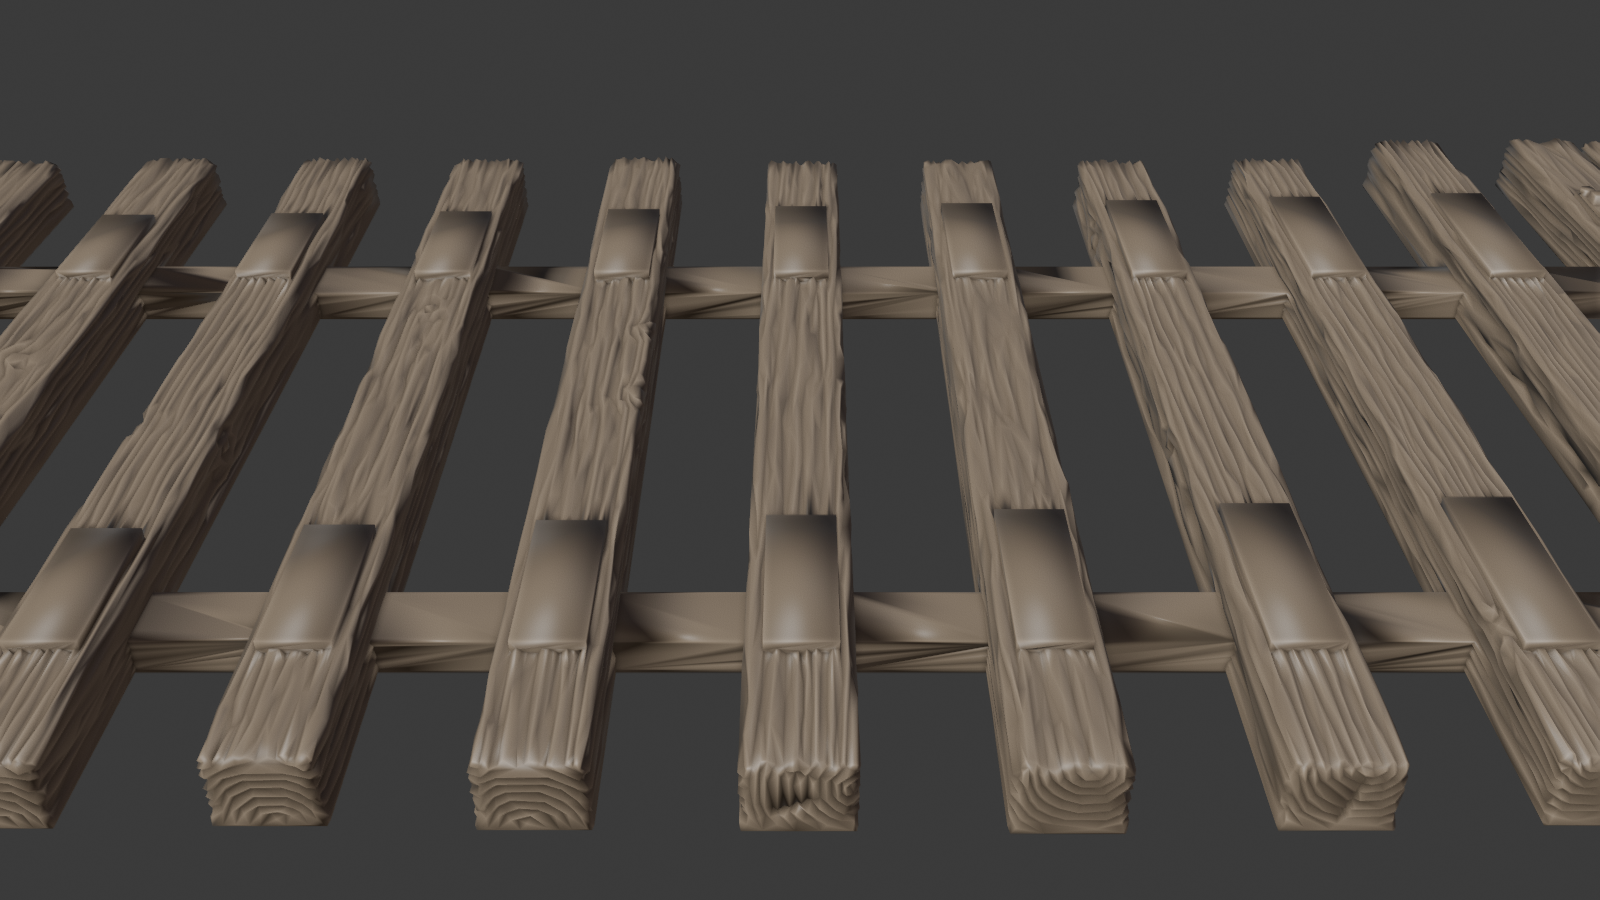
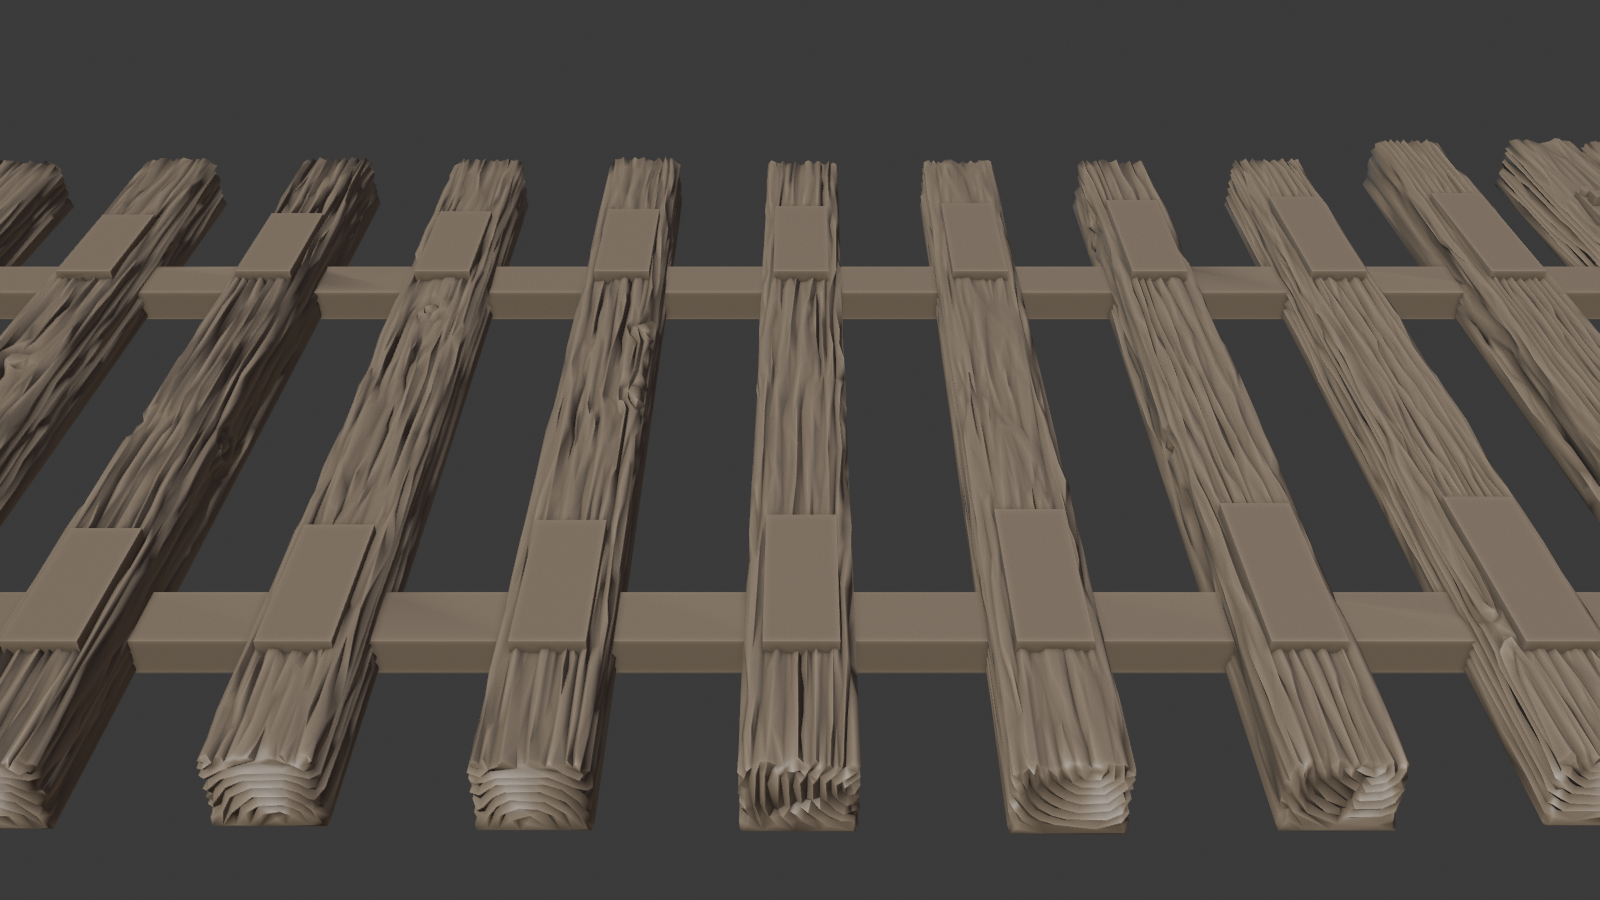
Fix the triangular shapes near the frog (v0.11.1)
Where the diverging rails leave the straight ones, the connectors under
them came together at a slight angle and left thin wedge-shaped gaps and
slivers; connectors closer than 0.6 mm now merge into one. The finished
pieces were also fully smooth-shaded, which spread the light across the
big flat connector and plate faces as odd light and dark triangles; they
are now smoothed by angle (60 degrees), so flat faces stay flat.

Claude-Session: https://claude.ai/code/session_01FyFJnGRmoKFYLFwSH9wQdR

diff --git a/stub_switch/layout.py b/stub_switch/layout.py
@@ -1007,6 +1007,9 @@ def turnout_bend(t: Turnout, x: float) -> float:
     return float(bend(t.movable_length, t.throw, np.array([x]))[0])
 
 
+CONNECTOR_GAP = 0.6  # model mm: connectors closer than this merge into one
+
+
 def _connectors(t: Turnout, s: Spec, lay: Layout) -> None:
     """Low connectors between neighbouring ties under the straight and diverging rails."""
     wc = s.connector_width if s.connector_width > 0 else s.foot_width
@@ -1025,16 +1028,36 @@ def _connectors(t: Turnout, s: Spec, lay: Layout) -> None:
         is_joint = joint and a.x < lay.split_x < b.x
         if is_joint:
             x1 = b.x - wt / 2 + s.tab_depth
-        done: list[tuple[float, float]] = []
+        # Each connector's sides across the track at both ends: [lo0, hi0, lo1, hi1].
+        spans = []
         for pts in t.connector_lines:
             if not (g2.covers(pts, x0) and g2.covers(pts, x1)):
                 continue
             (y0, h0), (y1, h1) = _frame(pts, x0), _frame(pts, x1)
-            if any(abs(y0 - p) < wc and abs(y1 - q) < wc for p, q in done):
-                continue  # too close to a connector already there
-            done.append((y0, y1))
             w0, w1 = wc / 2 / math.cos(h0), wc / 2 / math.cos(h1)
-            quad = ((x0, y0 - w0), (x1, y1 - w1), (x1, y1 + w1), (x0, y0 + w0))
+            spans.append([y0 - w0, y0 + w0, y1 - w1, y1 + w1])
+        # Connectors that overlap or come closer than CONNECTOR_GAP (where the
+        # diverging rails leave the straight ones, at the frog) become one wide
+        # connector; otherwise they'd leave thin wedge-shaped gaps.
+        merged = True
+        while merged:
+            merged = False
+            for i in range(len(spans)):
+                for j in range(i + 1, len(spans)):
+                    u, v = spans[i], spans[j]
+                    gap0 = max(u[0], v[0]) - min(u[1], v[1])
+                    gap1 = max(u[2], v[2]) - min(u[3], v[3])
+                    if min(gap0, gap1) < CONNECTOR_GAP:
+                        spans[i] = [min(u[0], v[0]), max(u[1], v[1]),
+                                    min(u[2], v[2]), max(u[3], v[3])]
+                        del spans[j]
+                        merged = True
+                        break
+                if merged:
+                    break
+        for lo0, hi0, lo1, hi1 in spans:
+            y0, y1 = (lo0 + hi0) / 2, (lo1 + hi1) / 2
+            quad = ((x0, lo0), (x1, lo1), (x1, hi1), (x0, hi0))
             if not is_joint:
                 lay.connectors.append(Prism(quad, 0.0, hc))
                 continue
@@ -1042,8 +1065,8 @@ def _connectors(t: Turnout, s: Spec, lay: Layout) -> None:
             c = s.joint_clearance
             lay.tabs.append(Prism(quad, 0.0, hc))
             sx0, sx1 = b.x - wt / 2 - 0.5, x1 + c
-            lay.sockets.append(Prism(((sx0, y0 - w0 - c), (sx1, y1 - w1 - c),
-                                      (sx1, y1 + w1 + c), (sx0, y0 + w0 + c)), -1.0, hc + c))
+            lay.sockets.append(Prism(((sx0, lo0 - c), (sx1, lo1 - c),
+                                      (sx1, hi1 + c), (sx0, hi0 + c)), -1.0, hc + c))
     if joint and len(lay.tabs) < 2:
         lay.warnings.append("The pieces are joined by fewer than two tabs, so they may not "
                             "line up well.")

diff --git a/tests/test_geometry.py b/tests/test_geometry.py
@@ -334,6 +334,23 @@ class TestLayout(unittest.TestCase):
         yr = self.t.rail_y
         self.assertTrue(any(yr - 1.5 < y < yr for y in on_hb))  # inner rail, gauge side
 
+    def test_no_thin_gaps_between_connectors(self):
+        """Where the diverging rails leave the straight ones, close connectors merge into one."""
+        lay = self.lay
+        merged = 0
+        for a, b in zip(lay.ties, lay.ties[1:]):
+            here = [c for c in lay.connectors if a.x < c.outline[0][0] < b.x]
+            ends = [(min(p[1] for p in c.outline[::3]), max(p[1] for p in c.outline[::3]),
+                     min(p[1] for p in c.outline[1:3]), max(p[1] for p in c.outline[1:3]))
+                    for c in here]
+            for i, u in enumerate(ends):
+                for v in ends[i + 1:]:
+                    gap0 = max(u[0], v[0]) - min(u[1], v[1])
+                    gap1 = max(u[2], v[2]) - min(u[3], v[3])
+                    self.assertGreaterEqual(min(gap0, gap1), layout.CONNECTOR_GAP)
+            merged += any(u[1] - u[0] > 2.5 for u in ends)  # wider than one rail foot
+        self.assertGreater(merged, 0)
+
     def test_plates_sit_on_the_ties(self):
         """Tie plates sit on top, narrower than the tie; a hidden footing fills the grain."""
         inset = 0.3  # the worn sides of the weathered ties (side grain depth + 0.1)

diff --git a/stub_switch/build.py b/stub_switch/build.py
@@ -309,7 +309,21 @@ def _piece(name, ties, parts, holes, coll, solver):
     old = base.data
     base.data = wb_bridge.mesh_from_arrays(name, verts, tris)
     bpy.data.meshes.remove(old)
-    return base, _clean(base.data), solver
+    edges = _clean(base.data)
+    _shade(base.data)
+    return base, edges, solver
+
+
+def _shade(mesh: bpy.types.Mesh) -> None:
+    """Smooth the weathered wood but keep flat faces flat (smooth by angle, 60 degrees).
+
+    Fully smooth shading spreads the light across the big flat faces of the
+    connectors and plates, which then show odd light and dark triangles.
+    """
+    try:
+        mesh.set_sharp_from_angle(angle=math.radians(60.0))
+    except (AttributeError, TypeError):
+        mesh.shade_flat()
 
 
 def generate(context, progress=None) -> BuildResult:

diff --git a/README.md b/README.md
@@ -14,7 +14,7 @@ All four add-ons are installed and enabled:
 
 ## Install
 
-In Blender, open Edit > Preferences > Get Extensions, choose "Install from Disk" in the menu at the top right, and pick `dist/stub_switch-0.11.0.zip`. The panel is in the 3D Viewport sidebar (N), **Stub Switch** tab.
+In Blender, open Edit > Preferences > Get Extensions, choose "Install from Disk" in the menu at the top right, and pick `dist/stub_switch-0.11.1.zip`. The panel is in the 3D Viewport sidebar (N), **Stub Switch** tab.
 
 ## Use
 
@@ -41,6 +41,7 @@ Each Generate adds a new turnout at the 3D cursor with a new random seed, as in 
 - **Lead curve.** The diverging rails start at the headblock at the switch angle and curve (a circular arc) until they reach the frog angle at the frog's toe; the frog is straight, as on the prototype. The Summary shows the distance from the headblock to the frog point and the lead curve's radius.
 - **Frog.** Its theoretical point sits where the inner diverging rail's gauge line crosses the straight route's rail. Ties, plates and spikes allow for its rails; a frog with a fill or base plate gets no spikes underneath.
 - **Guard rails** sit one flangeway inside the running rails opposite the frog. By default the frog reaches a little past each end of them, and their ends bend in toward the track centre to lead wheel flanges into the flangeway.
+- **Connectors** run under the straight and diverging rails between the ties; where the diverging rails leave the straight ones, connectors that would leave a thin wedge-shaped gap between them merge into one wider connector.
 - **Ties** are square to the straight route, lined up on the straight side, with a double tie under the headblock, and each reaches as far past the outermost rail as a standard tie does past its rail, rounded up to the length step. **Tie plates** merge where rails are close (headblock, frog, guard rails), and **shoulders** follow the angled rails. **Spikes** are turned with their rail and left out where they would land on another rail.
 
 ## Files
